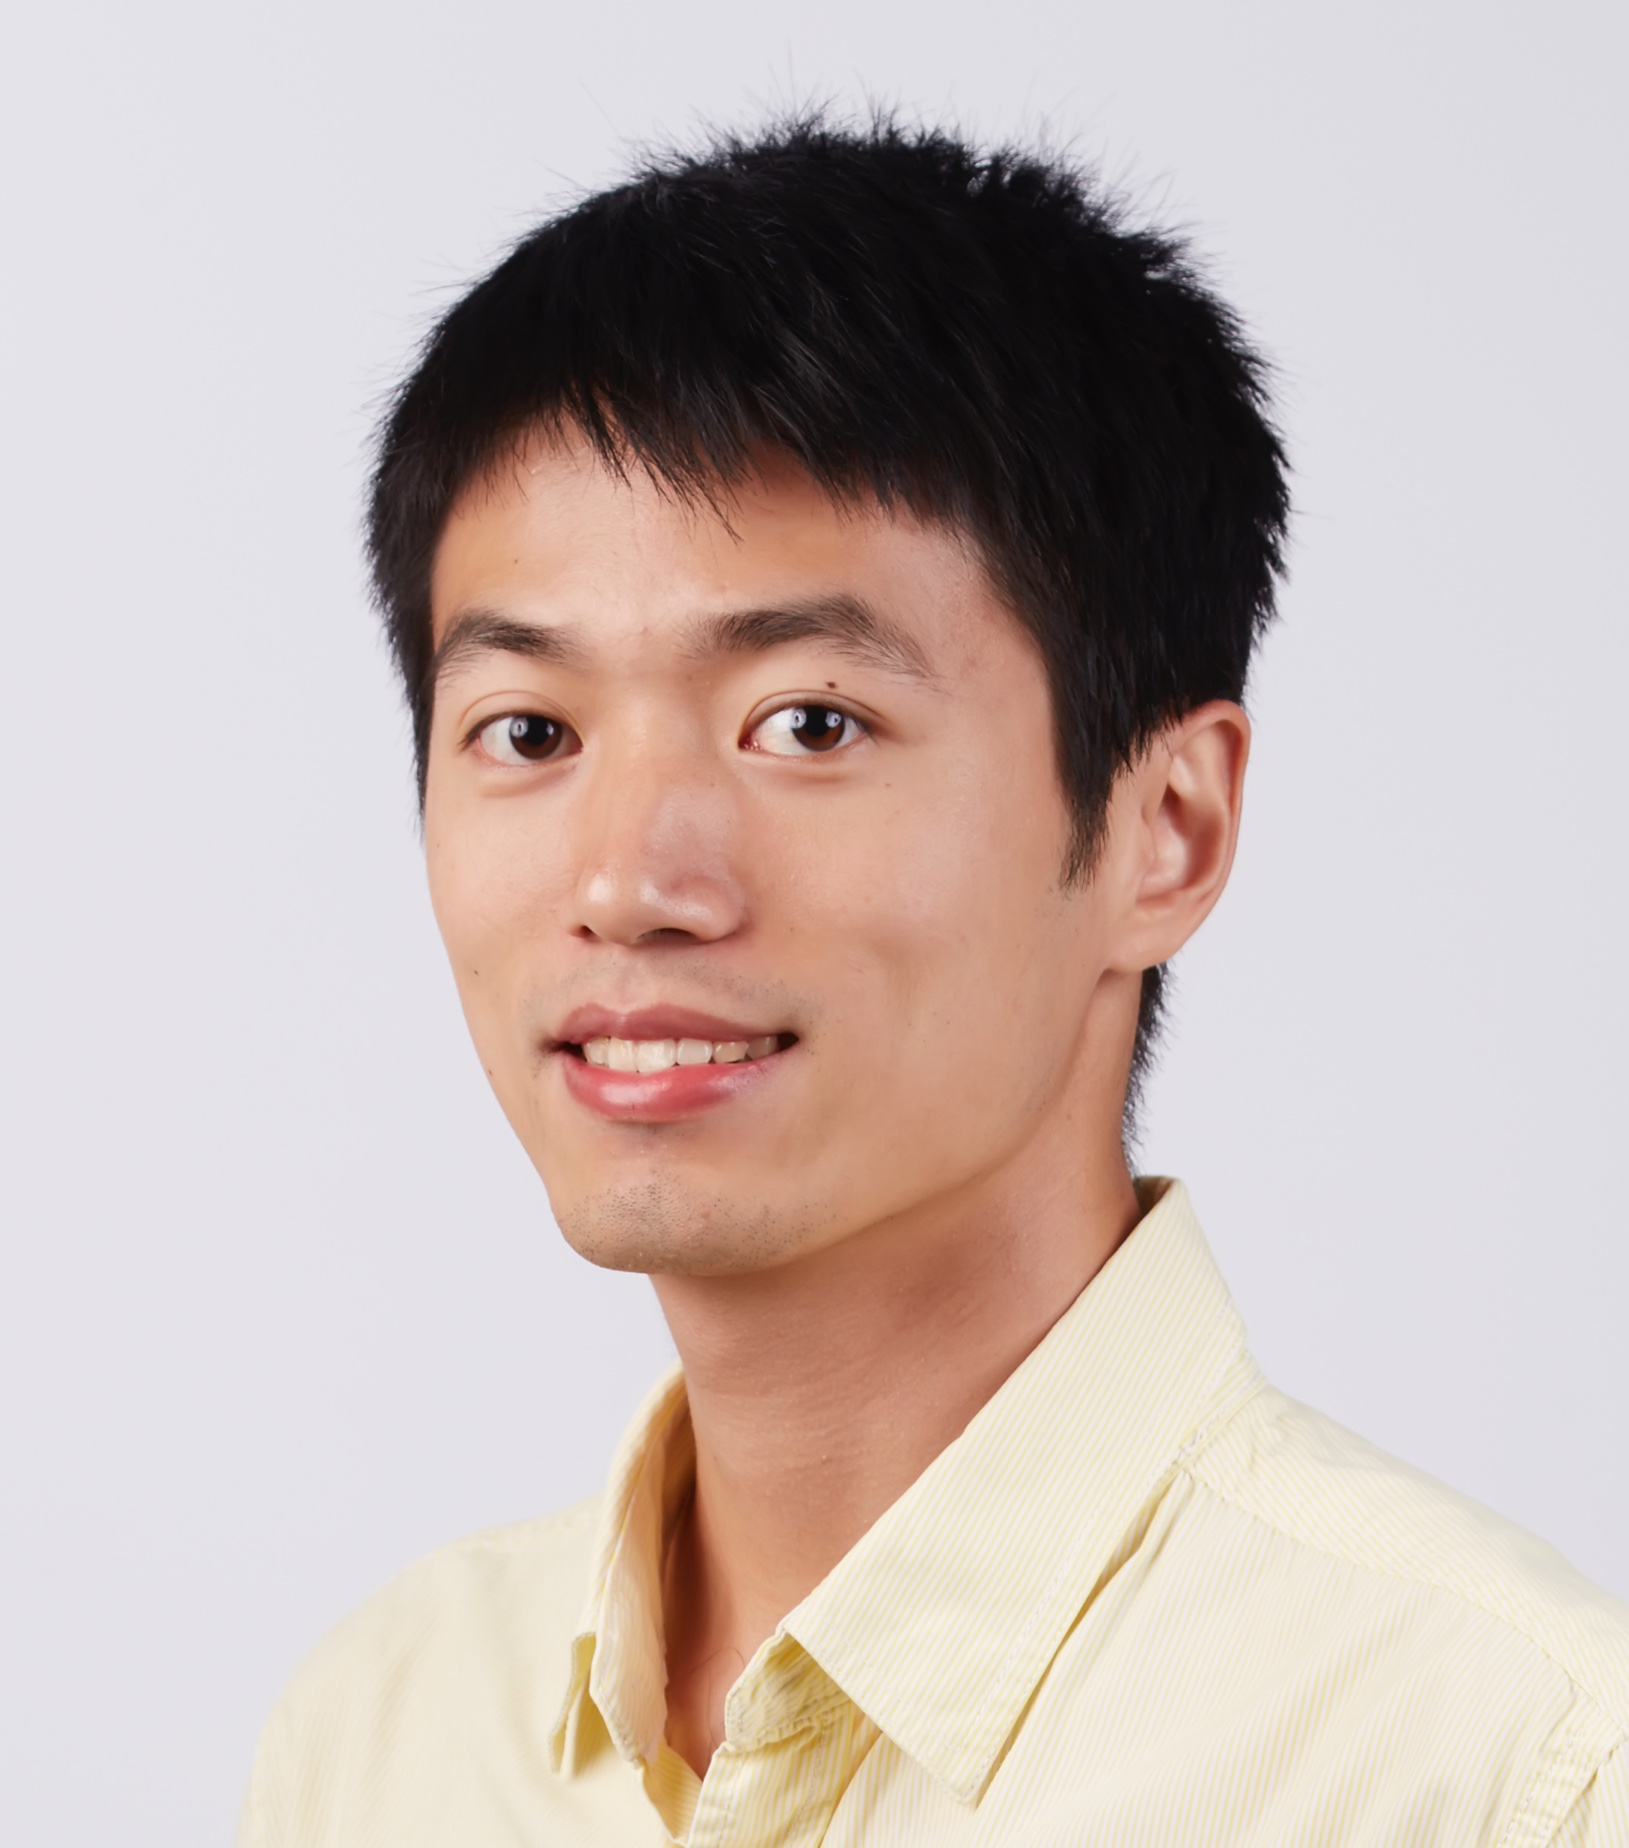
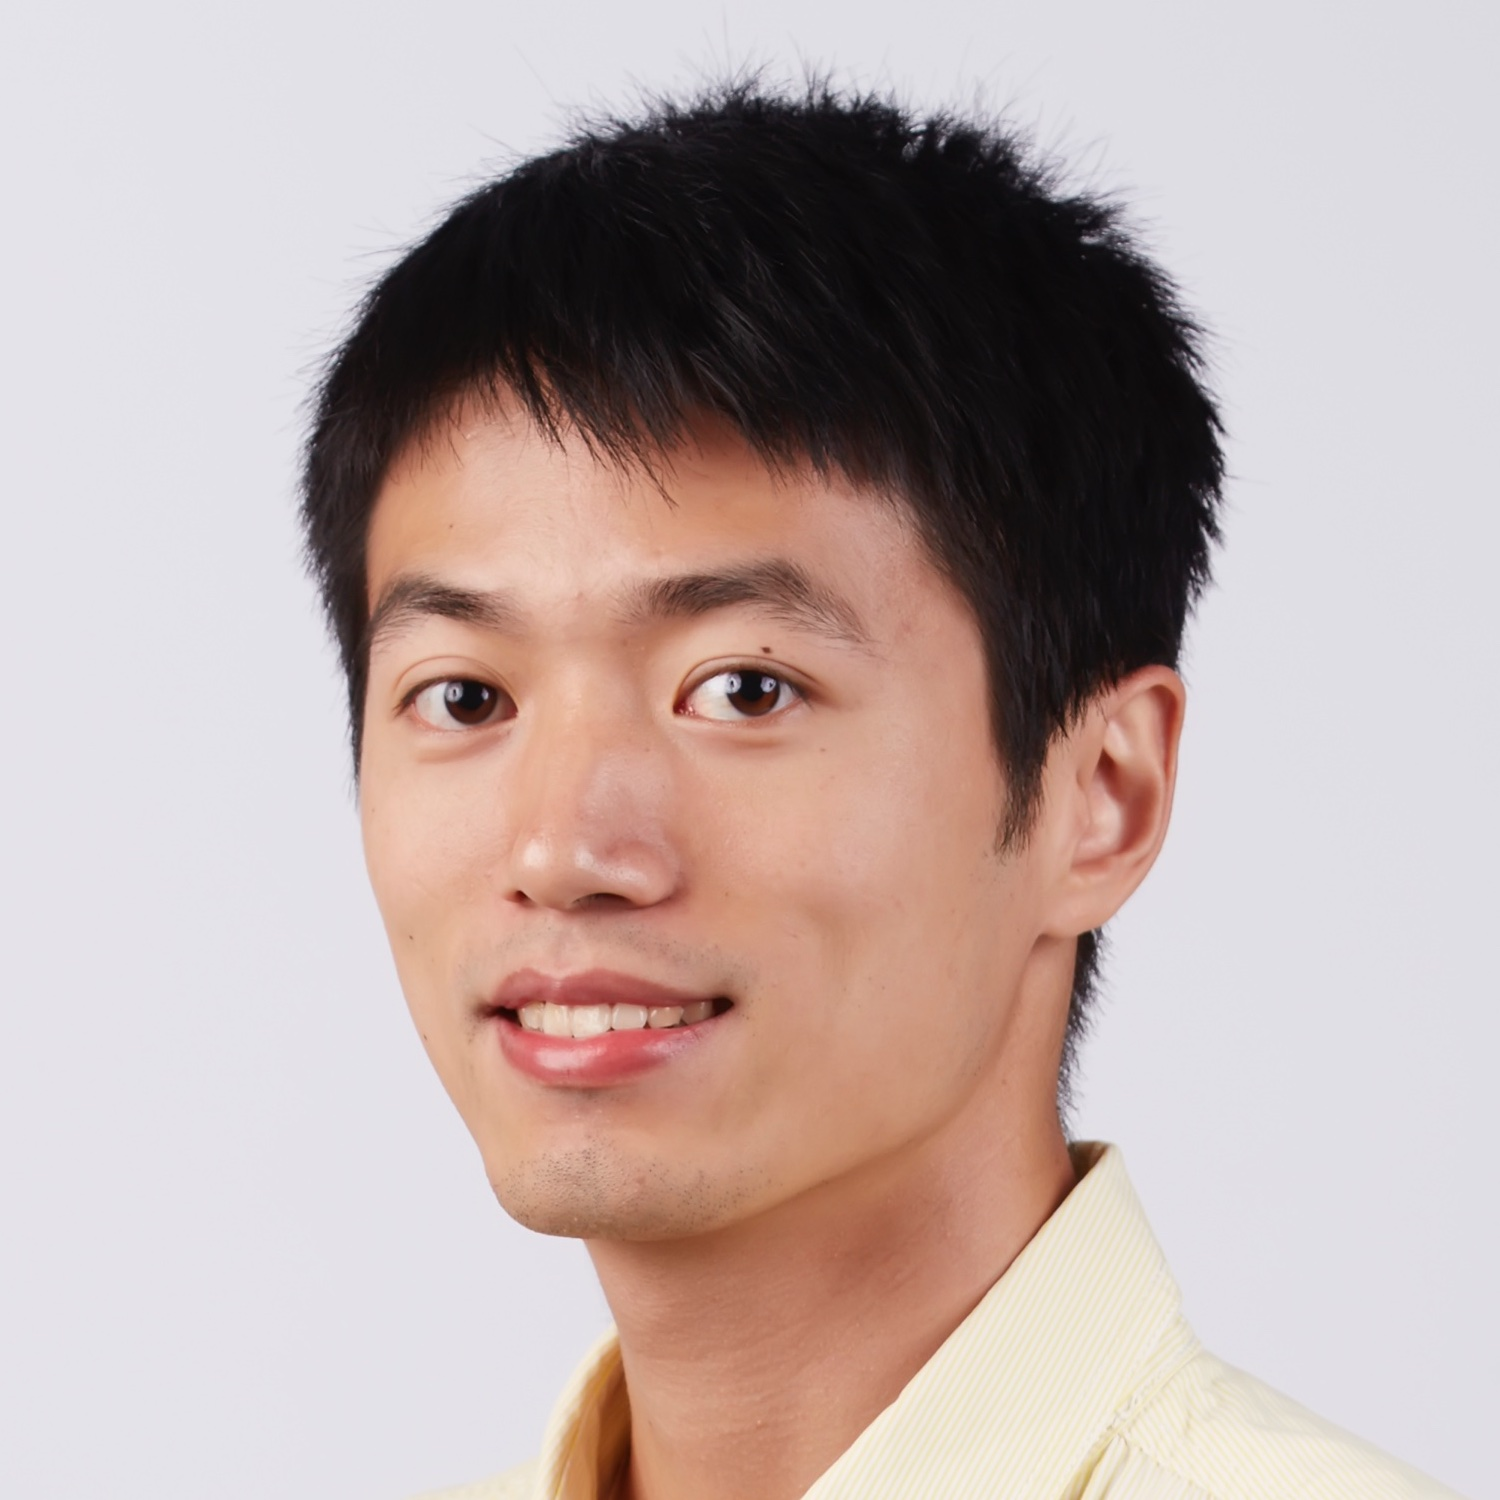
2026

diff --git a/_projects/6_project.md b/_projects/6_project.md
@@ -2,7 +2,7 @@
 layout: page
 title: Mario Fritz
 description: CISPA Helmholtz Center for Information Security
-img: assets/img/speakers/mike_shou.jpg
+img: assets/img/speakers/mario_fritz.jpg
 redirect: https://cispa.de/en/people/mario.fritz
 importance: 6
 category: fun
